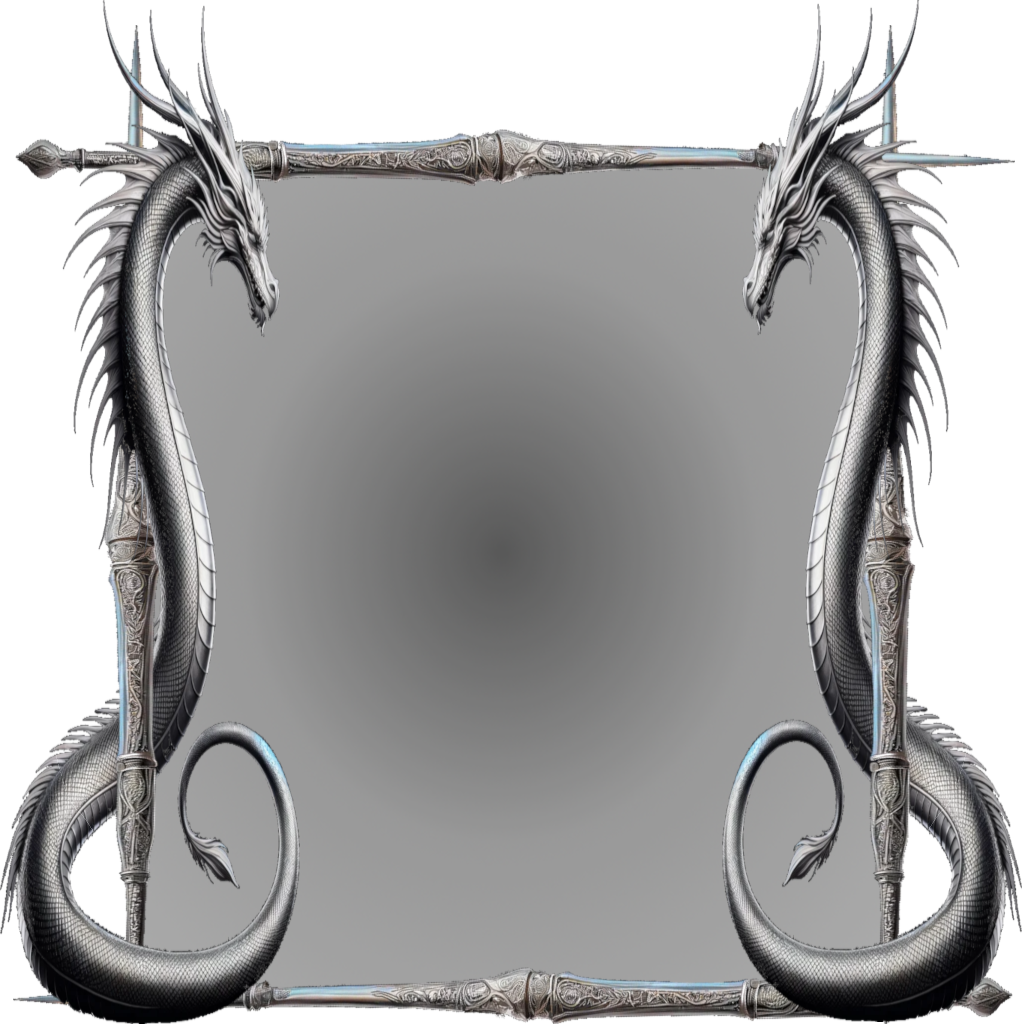
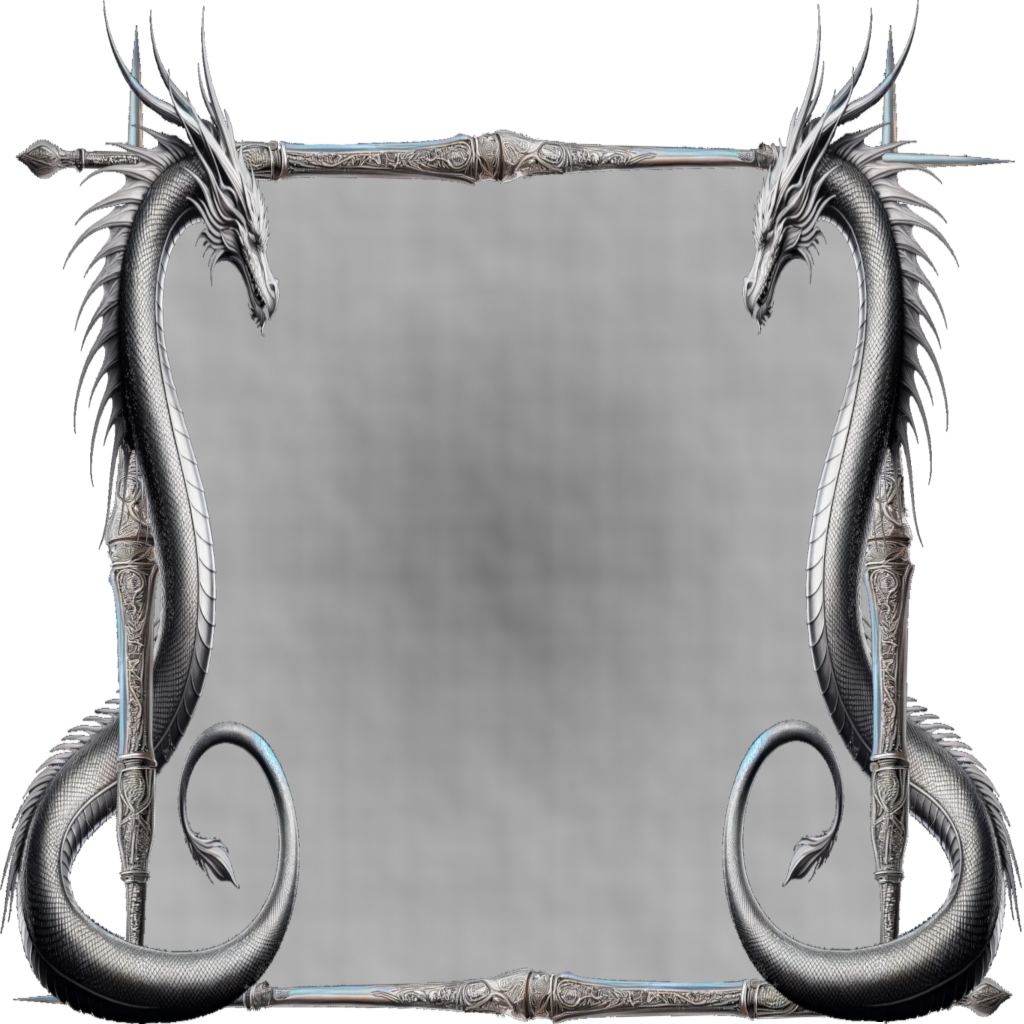
Improved cstudy modal through background and styled to fit
Forgot to commit.  Still learning

Changed region(s): [[0.3125, 0.3438, 0.6562, 0.7812], [0.4062, 0.2812, 0.4688, 0.3125], [0.6562, 0.4062, 0.6875, 0.4375]]

diff --git a/src/components/case-study-modal/case-study-modal.jsx b/src/components/case-study-modal/case-study-modal.jsx
@@ -18,7 +18,8 @@ export const CaseStudyModal = ({modalData}) => {
     const [pageIndex, setPageIndex] = useState(0);
     
     let images = {
-        'navArrow': 'Nav-Arrow-1024-1024.png'
+        'navArrow': 'Nav-Arrow-1024-1024.png',
+        'modalBackground': 'Spear-Border-1024-1024.png'
     };
 
     let currentPage = caseStudy.pages[pageIndex];
@@ -32,19 +33,27 @@ export const CaseStudyModal = ({modalData}) => {
     return (
         <>
             <div className='csm-main-container'>
+                <div className='csm-title'>
+                    <div className= 'text-box-border' />
+                    <div className='text-box-content' style={{opacity: .95}}>
+                        {`${currentPage.title}`}
+                    </div>
+                </div>
                 {/*
                     Content Container
                 */}
-                <div className='csm-info-container' style={{backgroundColor:'red'}}>
-                    <div className='csm-title'>
-                        {`Title: ${currentPage.title}`}
-                    </div>
+                
+                <div className='csm-info-container'>
+                    {/*
+                        Background
+                    */}
+                    <img src={images.modalBackground} />
                     <div className='csm-information'>
                         {currentPage.text}
                     </div>                    
                 </div>
                 {/*
-                    Image frame
+                    Image Array frame
                 */}
                 <div className='csm-img-container' style={{backgroundColor:'purple'}}>
                     <img src={currentPage.images[0]}/>

diff --git a/src/utils/case-studies.js b/src/utils/case-studies.js
@@ -22,10 +22,21 @@ export const caseStudies = [
         'name': 'Personal Portfolio - React',
         'pages': [
             {   
-                'title': 'Goal',
+                'title': 'Goals',
+                'text': 'The primary goal for developing my professional web portfolio was to establish a distinctive online presence that accurately reflects my skills and personality as a FullStack Developer. I aimed to create a website that was not just functional but also engaging and unique. This endeavor was about blending creativity with practicality, ensuring that the final product would stand out in the competitive tech landscape.',
+                'images': ['Under-Construction.PNG'],
+            },
+            {   
+                'title': 'Goals',
                 'text': 'This is the text for the goal',
                 'images': ['Under-Construction.PNG'],
             },
+            {   
+                'title': 'Goals',
+                'text': 'This is the text for the goal',
+                'images': ['Under-Construction.PNG'],
+            },
+
             {   
                 'title': 'Process',
                 'text': 'This is the text for the goal',

diff --git a/src/components/case-study-modal/case-study-modal.scss b/src/components/case-study-modal/case-study-modal.scss
@@ -27,6 +27,14 @@ $modal-height: min(95vh, calc(100vw - calc($margin-sides * 2)));
     bottom: 0;
 
     z-index: 1;
+
+    img {
+        top:0;
+        left:0;
+        position: absolute;
+        width: 100%;
+        height: 100%;
+    }
 }
 
 .csm-img-container {
@@ -85,9 +93,24 @@ $modal-height: min(95vh, calc(100vw - calc($margin-sides * 2)));
 }
 
 .csm-title {
+    position: absolute;
 
+    top: calc($modal-height * .15);
+    left: 0;
+    width: calc($modal-height * .3);
+    height: calc($modal-height * .15);
+
+    font-size: $extra-large-font;
+    font-family: 'Cinzel Decorative', cursive;
+    font-weight: 700;
+
+    z-index: 2;
 }
 
 .csm-information {
-    
+    position: absolute;
+    top: calc($modal-height * .22);
+    left: 25%;
+    font-family: 'MedievalSharp', cursive;
+    font-size: $large-font;
 }
